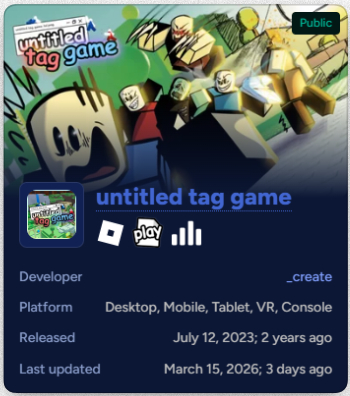
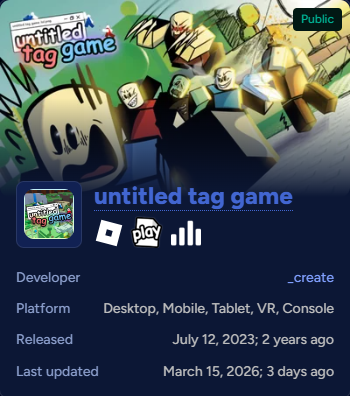
Lots & lots of changes

Changed region(s): [[0.0, 0.0, 1.0, 1.0]]

diff --git a/about/index.html b/about/index.html
@@ -14,6 +14,10 @@ description: Learn about the Independent Roblox Wiki Alliance mission and why we
 <p>Since its founding, wiki companies like <a href="https://news.crunchbase.com/startups/wikia-raises-106-million-in-new-equity-funding/">Fandom has received millions of dollars from private investors, venture capitalists, private equity firms and companies</a>. When companies invest, they only expect one thing - more profits back. We believe this is not an ideal way of running a wiki or wiki farm. </p>
 <p>We thus believe a better world for wikis is possible with independent wikis — Where the decisions can be made with the community in mind, and for the community. Our alliance seeks to unite, assist and help other wikis who are independent, in the process of moving, or wish to move. All our wikis have this freedom, and their sites reflects that.</p>
 <p>We thus support fully independent wikis, or wiki farms/organisations like <a href="https://miraheze.org">Miraheze</a>, who are included as they are generally community-friendly hosts, and level off decent levels of control to the community. </p>
+<blockquote>
+  <p>I want the alliance to be a welcoming, helpful resource for all independent Roblox wikis.</p>
+  <sup class="post__image--right"><i>Mooncloud in an interview on <a href="https://meta.miraheze.org/wiki/Miraheze_Monthly/February_2026">Miraheze Monthly</a></i></sup>
+</blockquote>
 <h1>Our approach</h1>
 <div class="flex-container" style="justify-content: space-between">
   <div>
@@ -29,13 +33,13 @@ description: Learn about the Independent Roblox Wiki Alliance mission and why we
     <p>We believe knowledge grows through connection. We are creating a network of like-minded wiki creators to exchange information and promote mutual assistance and collaboration.  </p>
   </div>
 </div>
-<h1 class="align-left">Contact</h1>
+<h2 class="align-center">Contact</h2>
 <p class="align-center">
   <a href="http://discord.com/invite/74qrU7qBqx" class="btn">Discord server</a>
   <a href="mailto:[email redacted]" class="btn">Email our team</a>
   <!-- <a href="{{ "/joining/" | relative_url }}" class="btn">Join Us</a> -->
 </p>
-<h1 class="align-left">Featured on</h1>
+<h2 class="align-left">Featured on</h2>
 <table style="border-collapse: collapse; width: 100%; border-style: hidden;" border="0">
   <tbody>
     <tr>

diff --git a/projects/index.html b/projects/index.html
@@ -7,12 +7,12 @@ description: The IRWA runs some projects to assist others. Learn what they are h
 
 <h1 class="align-center" data-pm-slice="0 0 []">Projects</h1>
 <p data-pm-slice="0 0 []">The alliance also manages several projects designed to assist other wikis. Explore these and consider installing them on your site. </p>
-<figure class="post__image--right"><img loading="lazy" src="{{ "/media/promofiles/utg-robloxapi.png" | relative_url }}" alt="" width="400"></figure>
+<figure class="post__image--right"><img loading="lazy" src="{{ "/media/promofiles/utg-robloxapi.png" | relative_url }}" alt="" width="200"></figure>
 <h2>RobloxAPI MediaWiki extension</h2>
 <p>
   <svg class="li li-circle-check" width="24px" height="24px" fill="none" stroke="currentColor" stroke-width="2" viewBox="0 0 24 24"><g><circle cx="12" cy="12" r="10"/><path d="m9 12 2 2 4-4"/></g></svg> Available on Miraheze |
   <svg class="li li-git-pull-request-arrow" width="24px" height="24px" fill="none" stroke="currentColor" stroke-width="2" viewBox="0 0 24 24"><g><circle cx="5" cy="6" r="3"/><path d="M5 9v12"/><circle cx="19" cy="18" r="3"/><path d="m15 9-3-3 3-3"/><path d="M12 6h5a2 2 0 0 1 2 2v7"/></g></svg> Version 1.4.0 |
-  <img src="{{ "/assets/svg/mediawiki.svg" | relative_url }}" width="24" height="24" alt="MediaWiki logo" class="li img-invert"> MediaWiki 1.41+ |
+  <img src="{{ "/assets/svg/mediawiki.svg" | relative_url }}" width="24" height="24" alt="MediaWiki logo" class="li"> MediaWiki 1.41+ |
   <svg class="li li-trending-up" width="24px" height="24px" fill="none" stroke="currentColor" stroke-width="2" viewBox="0 0 24 24"><g><path d="m22 7-8.5 8.5-5-5L2 17"/><path d="M16 7h6v6"/></g></svg> 200+ sites
 </p>
 <p>

diff --git a/_includes/footer.html b/_includes/footer.html
@@ -5,7 +5,7 @@
       <li><a href="{{ "/privacy/" | relative_url }}" class="invert">Privacy</a></li>
       <li><a href="{{ "/legal/" | relative_url }}" class="invert">Legal</a></li>
       <li><a href="https://github.com/Roblox-Indie-Wikis" class="invert">GitHub</a></li>
-      <li><a href="{{ "/security.txt" | relative_url }}">Security.TXT</a></li>
+      <li><a href="{{ "/security.txt" | relative_url }}" class="invert">Security.TXT</a></li>
     </ul>
     <div class="footer__copy">© {{ site.time | date: "%Y" }} <!--| Made with ❤ in Singapore--></div>
   </div>